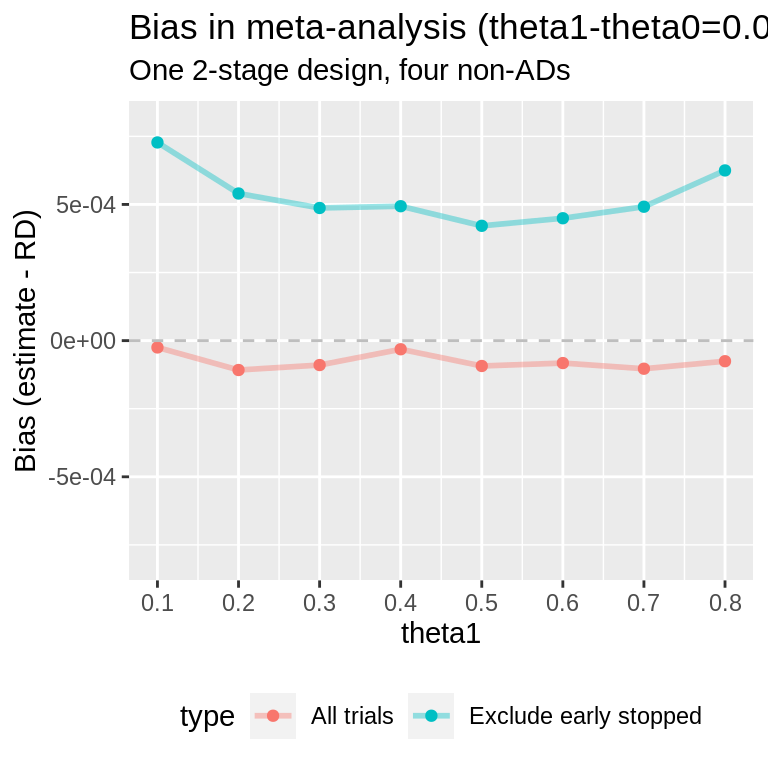
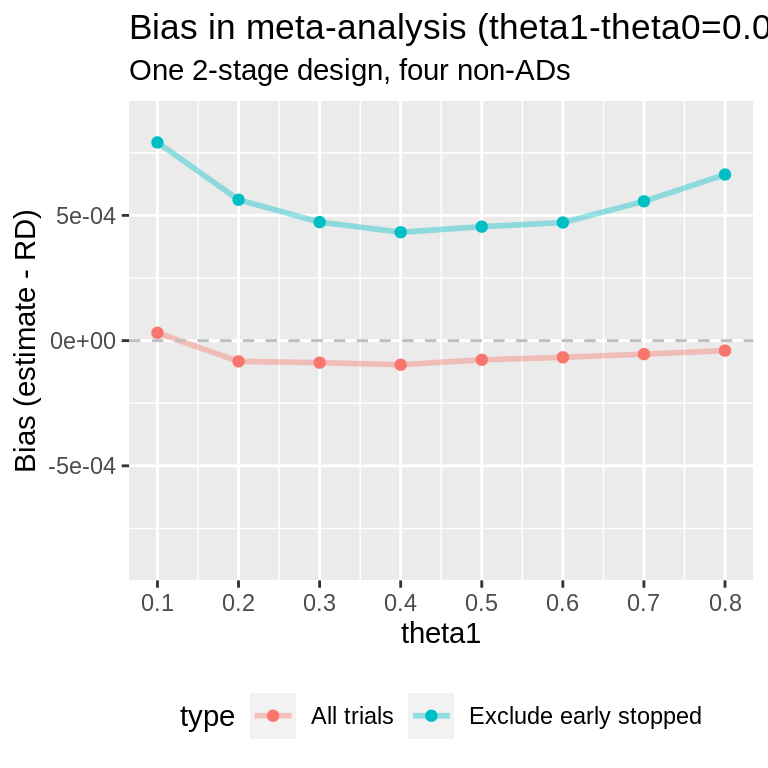
Built site for pwb: 0.0.0.9000@2b763a3

diff --git a/articles/MA_add_trial.html b/articles/MA_add_trial.html
@@ -139,36 +139,26 @@
 <h3 id="trial-design-with-some-precision-weighted-bias">Trial design with some precision weighted bias<a class="anchor" aria-label="anchor" href="#trial-design-with-some-precision-weighted-bias"></a>
 </h3>
 <p>We now do the converse: identify a trial with precision weighted bias but no unadjusted bias.</p>
-<p>We start by finding a Simon design with p<sub>0</sub>=0.8, p<sub>1</sub>=0.9, type-I error-rate 0.05, power 0.9:</p>
+<p>This is the case for the Simon design above when the true response probability is theta=0.3:</p>
 <div class="sourceCode" id="cb7"><pre class="downlit sourceCode r">
-<code class="sourceCode R"><span class="va">all.designs2</span> <span class="op">&lt;-</span> <span class="fu">clinfun</span><span class="fu">::</span><span class="fu"><a href="https://rdrr.io/pkg/clinfun/man/ph2simon.html" class="external-link">ph2simon</a></span><span class="op">(</span>pu<span class="op">=</span><span class="fl">0.8</span>,
-                                 pa<span class="op">=</span><span class="fl">0.9</span>,
-                                 ep1<span class="op">=</span><span class="fl">0.05</span>,
-                                 ep2<span class="op">=</span><span class="fl">0.1</span>,
-                                 nmax<span class="op">=</span><span class="fl">150</span><span class="op">)</span>
-<span class="co"># Choose optimal Simon design:</span>
-<span class="va">opt.index</span> <span class="op">&lt;-</span> <span class="fu"><a href="https://rdrr.io/r/base/which.min.html" class="external-link">which.min</a></span><span class="op">(</span><span class="va">all.designs2</span><span class="op">$</span><span class="va">out</span><span class="op">[</span>, <span class="st">"EN(p0)"</span><span class="op">]</span><span class="op">)</span>
-<span class="va">simon.des2</span> <span class="op">&lt;-</span> <span class="va">all.designs2</span><span class="op">$</span><span class="va">out</span><span class="op">[</span><span class="va">opt.index</span>, <span class="op">]</span></code></pre></div>
-<p>Find bias for true response probability theta=0.65:</p>
-<div class="sourceCode" id="cb8"><pre class="downlit sourceCode r">
 <code class="sourceCode R"><span class="co"># Find bias for this design, for a single true response probability theta:</span>
-  <span class="va">theta</span> <span class="op">&lt;-</span> <span class="fl">0.65</span>
+  <span class="va">theta</span> <span class="op">&lt;-</span> <span class="fl">0.3</span>
   <span class="fu"><a href="https://rdrr.io/r/base/Random.html" class="external-link">set.seed</a></span><span class="op">(</span><span class="fl">16</span><span class="op">)</span>
-  <span class="va">single.simon2</span> <span class="op">&lt;-</span> <span class="fu"><a href="../reference/pwbSimon.html">pwbSimon</a></span><span class="op">(</span>theta<span class="op">=</span><span class="va">theta</span>,
-                                des<span class="op">=</span><span class="va">simon.des2</span>,
+  <span class="va">single.simon2</span> <span class="op">&lt;-</span> <span class="fu"><a href="../reference/pwbSimon.html">pwbSimon</a></span><span class="op">(</span>theta<span class="op">=</span><span class="fl">0.3</span>,
+                                des<span class="op">=</span><span class="va">simon.des</span>,
                                 nsims<span class="op">=</span><span class="va">nsims</span><span class="op">)</span>
   <span class="fu"><a href="https://rdrr.io/r/base/Round.html" class="external-link">round</a></span><span class="op">(</span><span class="va">single.simon2</span><span class="op">$</span><span class="va">ests</span><span class="op">[</span><span class="fl">3</span><span class="op">:</span><span class="fl">4</span>, <span class="fl">2</span><span class="op">:</span><span class="fl">4</span><span class="op">]</span>, <span class="fl">5</span><span class="op">)</span>
 <span class="co">#&gt;                              bias mean.SE  emp.SE</span>
-<span class="co">#&gt; All                      -0.00040 0.07092 0.07088</span>
-<span class="co">#&gt; All (precision-weighted)  0.00721 0.07026      NA</span></code></pre></div>
+<span class="co">#&gt; All                       0.00014 0.04468 0.04491</span>
+<span class="co">#&gt; All (precision-weighted) -0.00390 0.04450      NA</span></code></pre></div>
 <p>There is some unadjusted bias but the precision weighted bias is more than one order of magnitude greater.</p>
 <p>Again, simulate all other meta-analysis studies and find summary estimate for each replication. These studies all have sample size equal to the maximum sample size of the Simon design directly above.</p>
-<div class="sourceCode" id="cb9"><pre class="downlit sourceCode r">
-<code class="sourceCode R"><span class="va">ma.results2</span> <span class="op">&lt;-</span> <span class="fu"><a href="../reference/simMeta.html">simMeta</a></span><span class="op">(</span>N<span class="op">=</span><span class="va">simon.des2</span><span class="op">[</span><span class="st">"n"</span><span class="op">]</span>, theta<span class="op">=</span><span class="fl">0.65</span>, n.studies<span class="op">=</span><span class="fl">4</span>, nsims<span class="op">=</span><span class="va">nsims</span><span class="op">)</span>
+<div class="sourceCode" id="cb8"><pre class="downlit sourceCode r">
+<code class="sourceCode R"><span class="va">ma.results2</span> <span class="op">&lt;-</span> <span class="fu"><a href="../reference/simMeta.html">simMeta</a></span><span class="op">(</span>N<span class="op">=</span><span class="va">simon.des</span><span class="op">[</span><span class="st">"n"</span><span class="op">]</span>, theta<span class="op">=</span><span class="va">theta</span>, n.studies<span class="op">=</span><span class="fl">4</span>, nsims<span class="op">=</span><span class="va">nsims</span><span class="op">)</span>
 <span class="va">wtdmeans.ex2</span> <span class="op">&lt;-</span> <span class="fu"><a href="https://rdrr.io/r/base/rep.html" class="external-link">rep</a></span><span class="op">(</span><span class="cn">NA</span>, <span class="va">nsims</span><span class="op">)</span>
 <span class="kw">for</span><span class="op">(</span><span class="va">i</span> <span class="kw">in</span> <span class="fl">1</span><span class="op">:</span><span class="va">nsims</span><span class="op">)</span>    <span class="va">wtdmeans.ex2</span><span class="op">[</span><span class="va">i</span><span class="op">]</span> <span class="op">&lt;-</span> <span class="fu"><a href="https://rdrr.io/r/stats/weighted.mean.html" class="external-link">weighted.mean</a></span><span class="op">(</span>x<span class="op">=</span><span class="va">ma.results2</span><span class="op">$</span><span class="va">theta.hat</span><span class="op">[</span><span class="va">i</span>, <span class="op">]</span>, w<span class="op">=</span><span class="fl">1</span><span class="op">/</span><span class="va">ma.results2</span><span class="op">$</span><span class="va">se</span><span class="op">[</span><span class="va">i</span>, <span class="op">]</span><span class="op">^</span><span class="fl">2</span><span class="op">)</span></code></pre></div>
 <p>Now add replications of this second Simon design to a meta-analysis:</p>
-<div class="sourceCode" id="cb10"><pre class="downlit sourceCode r">
+<div class="sourceCode" id="cb9"><pre class="downlit sourceCode r">
 <code class="sourceCode R"><span class="va">combined.results2</span> <span class="op">&lt;-</span> <span class="va">ma.results2</span>
 <span class="va">combined.results2</span><span class="op">$</span><span class="va">theta.hat</span> <span class="op">&lt;-</span> <span class="fu"><a href="https://rdrr.io/r/base/cbind.html" class="external-link">cbind</a></span><span class="op">(</span><span class="va">single.simon2</span><span class="op">$</span><span class="va">results</span><span class="op">$</span><span class="va">theta.hat</span>, <span class="va">ma.results2</span><span class="op">$</span><span class="va">theta.hat</span><span class="op">)</span>
 <span class="va">combined.results2</span><span class="op">$</span><span class="va">se</span> <span class="op">&lt;-</span> <span class="fu"><a href="https://rdrr.io/r/base/cbind.html" class="external-link">cbind</a></span><span class="op">(</span><span class="va">single.simon2</span><span class="op">$</span><span class="va">results</span><span class="op">$</span><span class="va">se</span>, <span class="va">ma.results2</span><span class="op">$</span><span class="va">se</span><span class="op">)</span>
@@ -180,12 +170,12 @@
 <span class="va">bias.ex2</span> <span class="op">&lt;-</span> <span class="fu"><a href="https://rdrr.io/r/base/mean.html" class="external-link">mean</a></span><span class="op">(</span><span class="va">wtdmeans.ex2</span><span class="op">-</span><span class="va">theta</span><span class="op">)</span>
 <span class="va">bias.inc2</span> <span class="op">&lt;-</span> <span class="fu"><a href="https://rdrr.io/r/base/mean.html" class="external-link">mean</a></span><span class="op">(</span><span class="va">wtdmeans.inc2</span><span class="op">-</span><span class="va">theta</span><span class="op">)</span>
 <span class="va">bias.ex2</span>
-<span class="co">#&gt; [1] 0.00181066</span>
+<span class="co">#&gt; [1] -0.001363598</span>
 <span class="va">bias.inc2</span>
-<span class="co">#&gt; [1] 0.002239122</span>
+<span class="co">#&gt; [1] -0.001617706</span>
 <span class="fu"><a href="https://rdrr.io/r/base/MathFun.html" class="external-link">abs</a></span><span class="op">(</span><span class="va">bias.inc2</span><span class="op">)</span><span class="op">-</span><span class="fu"><a href="https://rdrr.io/r/base/MathFun.html" class="external-link">abs</a></span><span class="op">(</span><span class="va">bias.ex2</span><span class="op">)</span>
-<span class="co">#&gt; [1] 0.0004284618</span></code></pre></div>
-<p>Bias increases only slightly, but we expect a larger increase.</p>
+<span class="co">#&gt; [1] 0.0002541073</span></code></pre></div>
+<p>Absolute bias increases only slightly, but we expect a larger increase.</p>
 </div>
   </main>
 </div>

diff --git a/articles/GS.html b/articles/GS.html
@@ -92,10 +92,10 @@
                      nsims<span class="op">=</span><span class="va">nsims</span><span class="op">)</span>
   <span class="va">single.GS</span><span class="op">$</span><span class="va">ests</span><span class="op">[</span>, <span class="fl">1</span><span class="op">:</span><span class="fl">5</span><span class="op">]</span>
 <span class="co">#&gt;                          nsims    bias mean.SE emp.SE theta</span>
-<span class="co">#&gt; Stopped early            39108 -0.0452  0.0455 0.0273   0.5</span>
-<span class="co">#&gt; Complete                 60892  0.0244  0.0421 0.0298   0.5</span>
-<span class="co">#&gt; All                     100000 -0.0028  0.0434 0.0446   0.5</span>
-<span class="co">#&gt; All (precision-weghted) 100000 -0.0001  0.0433     NA   0.5</span>
+<span class="co">#&gt; Stopped early            39481 -0.0453  0.0455 0.0274   0.5</span>
+<span class="co">#&gt; Complete                 60519  0.0248  0.0421 0.0299   0.5</span>
+<span class="co">#&gt; All                     100000 -0.0029  0.0435 0.0449   0.5</span>
+<span class="co">#&gt; All (precision-weghted) 100000 -0.0002  0.0433     NA   0.5</span>
   <span class="fu"><a href="https://rdrr.io/r/base/Round.html" class="external-link">round</a></span><span class="op">(</span><span class="va">single.GS</span><span class="op">$</span><span class="va">mc.error</span>, <span class="fl">5</span><span class="op">)</span>
 <span class="co">#&gt; [1] 0.00014 0.00010</span></code></pre></div>
 <p>How does bias compare when the true response probability is varied? Find results for a vector of true response probabilities:</p>
